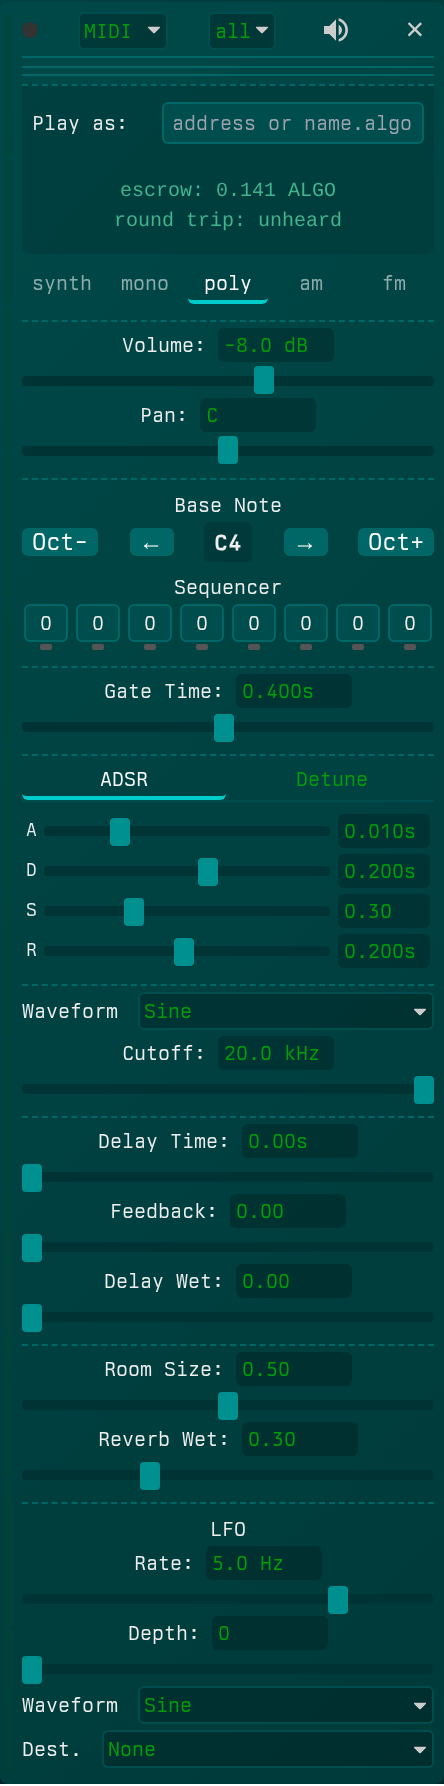
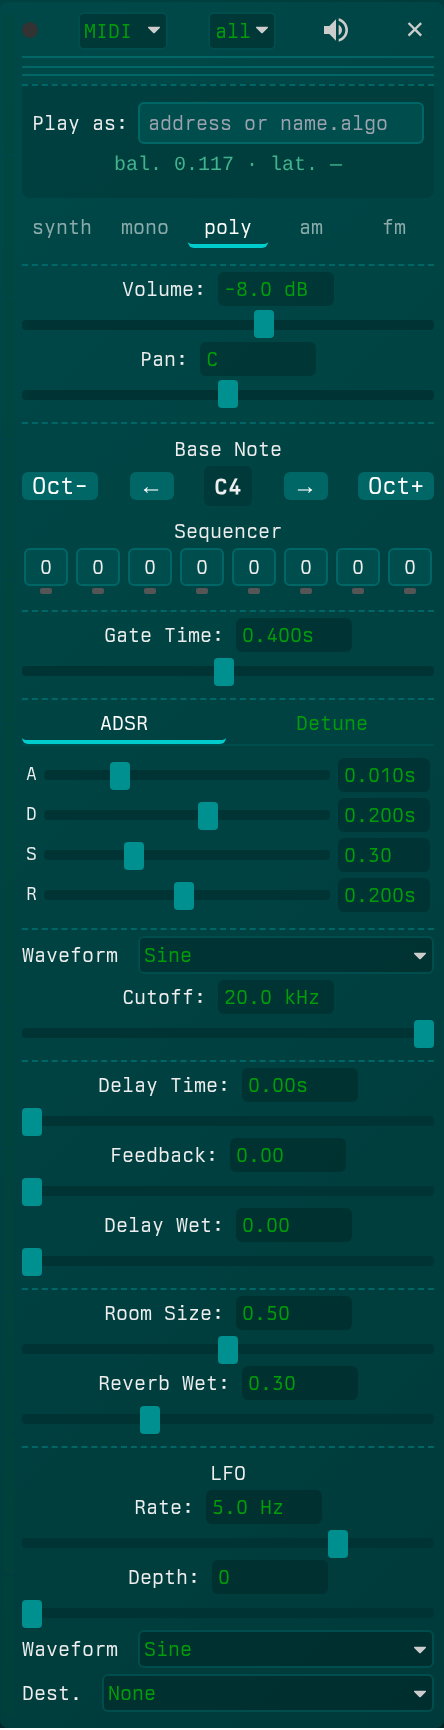
bal. and lat., on one line
Three lines of height off the card, and a label that stops throwing my
prose at you.

"round trip" was a phrase, not a reading. It is lat. now, next to bal.,
and the two share one line: at a card's width they fit even at the worst
case of a four-digit latency, measured down to a 241px card with four to
a row. The tooltip spells both out, along with the escrow address.

The resolved address under Play as answered "which account did that name
mean" once and then charged for the answer forever. It clears itself
after four seconds, and the row collapses rather than sitting empty. A
failed lookup stays, because it is still true.

Play as had a sixty-pixel label column to line up with rows that no
longer exist — device and channel left for the header. The label takes
the width of its own text now, so the input keeps what it gains as the
card narrows.

Card height: 893 to 865.

Claude-Session: https://claude.ai/code/session_01F3U3qYRnw6NPt5BRj81S9X

diff --git a/SOA/projects/SOA-frontend/src/legacy/proto-synth.js b/SOA/projects/SOA-frontend/src/legacy/proto-synth.js
@@ -2974,12 +2974,13 @@ function stopEscrowWatchIfUnwatched() {
 }
 
 function refreshMidiStatus() {
-    // A card is about twenty-eight characters wide at this size, so each fact
-    // gets its own short line rather than a long one that wraps mid-phrase.
-    const balance = midiEscrowBalance === null ? '—' : `${(midiEscrowBalance / 1e6).toFixed(3)} ALGO`;
-    const trip = midiLastRoundTrip === null ? 'unheard' : `${midiLastRoundTrip} ms`;
+    // Abbreviated because the card is about twenty-eight characters wide at this
+    // size, and two facts about the instrument on one line is worth more than
+    // two spelled-out labels on two.
+    const balance = midiEscrowBalance === null ? '—' : `${(midiEscrowBalance / 1e6).toFixed(3)}`;
+    const latency = midiLastRoundTrip === null ? '—' : `${midiLastRoundTrip}ms`;
     const stats = getMidiStats();
-    const lines = [`escrow: ${balance}`, `round trip: ${trip}`];
+    const lines = [`bal. ${balance} · lat. ${latency}`];
 
     // What the hat holds is everyone's; what you have spent is yours. An
     // arpeggiator or a running sequencer bills you a note at a time without a
@@ -3005,7 +3006,7 @@ function refreshMidiStatus() {
         const el = document.getElementById(`${instance.id}-midi-status`);
         if (!el || el.dataset.flashing === 'true') return;
         el.textContent = text;
-        el.title = `Escrow ${escrow}\nClick to copy — top it up to keep playing`;
+        el.title = `bal. is the escrow balance; lat. is how long a note takes to come back.\n\nEscrow ${escrow}\nClick to copy — top it up to keep playing.`;
     });
 }
 
@@ -3146,10 +3147,17 @@ async function handleMidiAddressChange(instanceId, key, value) {
     const typed = value.trim();
     const input = document.getElementById(`${instanceId}-midi-${key}`);
     const resolvedEl = document.getElementById(`${instanceId}-midi-${key}-resolved`);
+    // A resolved address is a confirmation, not a readout: it answers "which
+    // account did that name mean" once and then costs height forever. Successes
+    // clear themselves; a failure stays, because it is still true.
     const setNote = (text, bad = false) => {
         if (!resolvedEl) return;
+        clearTimeout(resolvedEl._clearTimer);
         resolvedEl.textContent = text;
         resolvedEl.classList.toggle('resolve-failed', bad);
+        if (text && !bad) {
+            resolvedEl._clearTimer = setTimeout(() => { resolvedEl.textContent = ''; }, 4000);
+        }
     };
 
     if (typed === '') {
@@ -4075,10 +4083,10 @@ function renderParameterArea(instanceId, type, subtype) {
         // card's height is the most expensive thing in a layout.
         paramHTML += `
             <div class="param-control">
-                <label for="${instanceId}-midi-player">Play as:</label>
+                <label class="midi-play-as" for="${instanceId}-midi-player">Play as:</label>
                 <input type="text" id="${instanceId}-midi-player" class="midi-player-input text-input" placeholder="address or name.algo" value="${params.playerName || params.player || ''}" data-instance-id="${instanceId}" title="Stamped on every note you send, so others can pick your playing out. Costs nothing — a zero transfer never touches the receiving account.">
             </div>
-            <div class="midi-resolved" id="${instanceId}-midi-player-resolved">${describeResolved(params.player, params.playerName)}</div>
+            <div class="midi-resolved" id="${instanceId}-midi-player-resolved"></div>
             <div class="midi-status" id="${instanceId}-midi-status" data-instance-id="${instanceId}">reading the escrow…</div>
         `;
         paramArea.innerHTML = paramHTML;

diff --git a/SOA/projects/SOA-frontend/src/legacy/guide-sections.js b/SOA/projects/SOA-frontend/src/legacy/guide-sections.js
@@ -477,9 +477,10 @@ export const GUIDE_SECTIONS = [
       holding a program that will only ever sign one shape of transaction, so anyone who
       has it can play — at the same time as you, with no server in between. Each note
       costs the minimum fee, 0.001 ALGO, out of that shared balance.</p>
-      <p>The card shows what's left of it. <strong>Click the balance to copy the escrow
-      address</strong>, and send ALGO there when it runs low — a thousand notes to the
-      ALGO. Anyone can top it up and anyone can spend it, so keep it small.</p>
+      <p><strong>bal.</strong> on the card is what's left of it, and <strong>lat.</strong>
+      is how long a note is taking to come back. <strong>Click that line to copy the
+      escrow address</strong>, and send ALGO there when it runs low — a thousand notes to
+      the ALGO. Anyone can top it up and anyone can spend it, so keep it small.</p>
       <p>The second dropdown in the header is the <strong>channel</strong>. Leave it on
       <em>all</em> for a device that sends on one. For one that sends several tracks at
       once — a groovebox, a sequencer — add a card per track and give each its own

diff --git a/SOA/projects/SOA-frontend/src/legacy/legacy.css b/SOA/projects/SOA-frontend/src/legacy/legacy.css
@@ -1328,7 +1328,18 @@
             font-size: 9px;
             color: #43b38d;
             font-family: 'Courier New', monospace;
-            min-height: 11px;
+        }
+        /* Empty means answered and done with — it must take no height at all,
+           or the confirmation costs a line for the rest of the session. */
+        .midi-resolved:empty {
+            display: none;
+        }
+
+        /* The only labelled row left on this card, so it has nothing to line up
+           with. A fixed column just pushed the input around as the card
+           narrowed. */
+        .param-control label.midi-play-as {
+            flex-basis: auto;
         }
         .midi-resolved.resolve-failed {
             color: #e08a5a;
